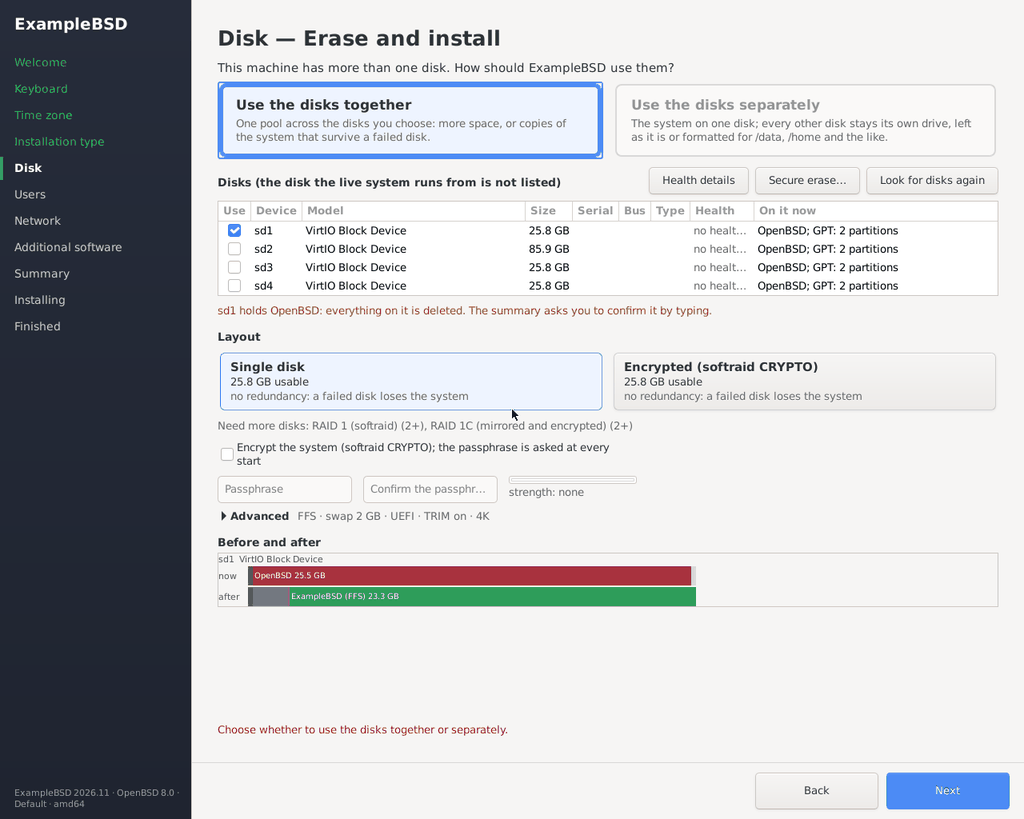
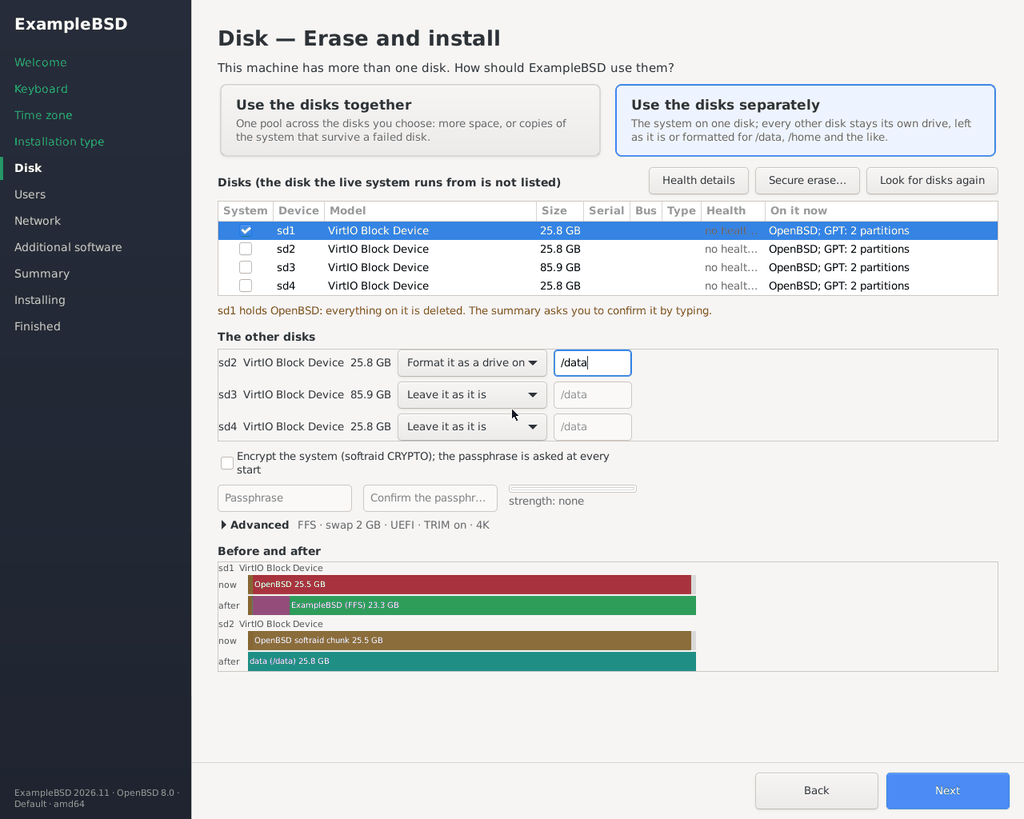
#1675 openbsd-template: the "use the disks separately" install, proven on a VM
Run on wtf-obsd (installer-template ceda104), keyboard only: the system
on sd1, sd2 formatted as a drive on /data, sd3 and sd4 left as they
are. After a reboot with the disks in another order the data disk came
up as sd1 and /data still mounted (`/dev/sd1a on /data type ffs`):
/etc/fstab names it by its DUID (cd12204d6f4be4b2.a). The branded
greeter came up and the user logged in.

- docs/screenshots/disk.png retaken from that run.
- README: the disk-page caption says how the disks are used, one line
  per disk.

Review: scanners clean; quality, security, correctness and
falsification NO FINDINGS on the first run. Interface: the caption
split per disk and DUID spelt out (taken). The last run's voices were
unreachable (degraded).

Stewardship:
- Honcho: LESSON put the build disk where a "separately" install cannot
  reach it before running the proof.
- Ticket: #1675
- Ticket updated: held (no raw Track calls until add_comment ships).
- Docs: README.md in this commit.

diff --git a/README.md b/README.md
@@ -41,7 +41,13 @@ and the menu entry open it again:
 The disk page: the disks OpenBSD detects (fdisk, disklabel, bioctl; the
 live disk is not listed), the layouts this template offers (single disk,
 softraid CRYPTO; RAID 1 and RAID 1C with two disks or more) and the plan
-before and after:
+before and after. Here the disks are used separately:
+
+- sd1 holds the system.
+- sd2 is formatted as a drive on /data. /etc/fstab names it by its disk
+  ID (DUID), so it still mounts when the disks come up in another order.
+- sd3 and sd4 are left as they are.
+
 
 ![The disk page (OpenBSD 8.0)](docs/screenshots/disk.png)
 
